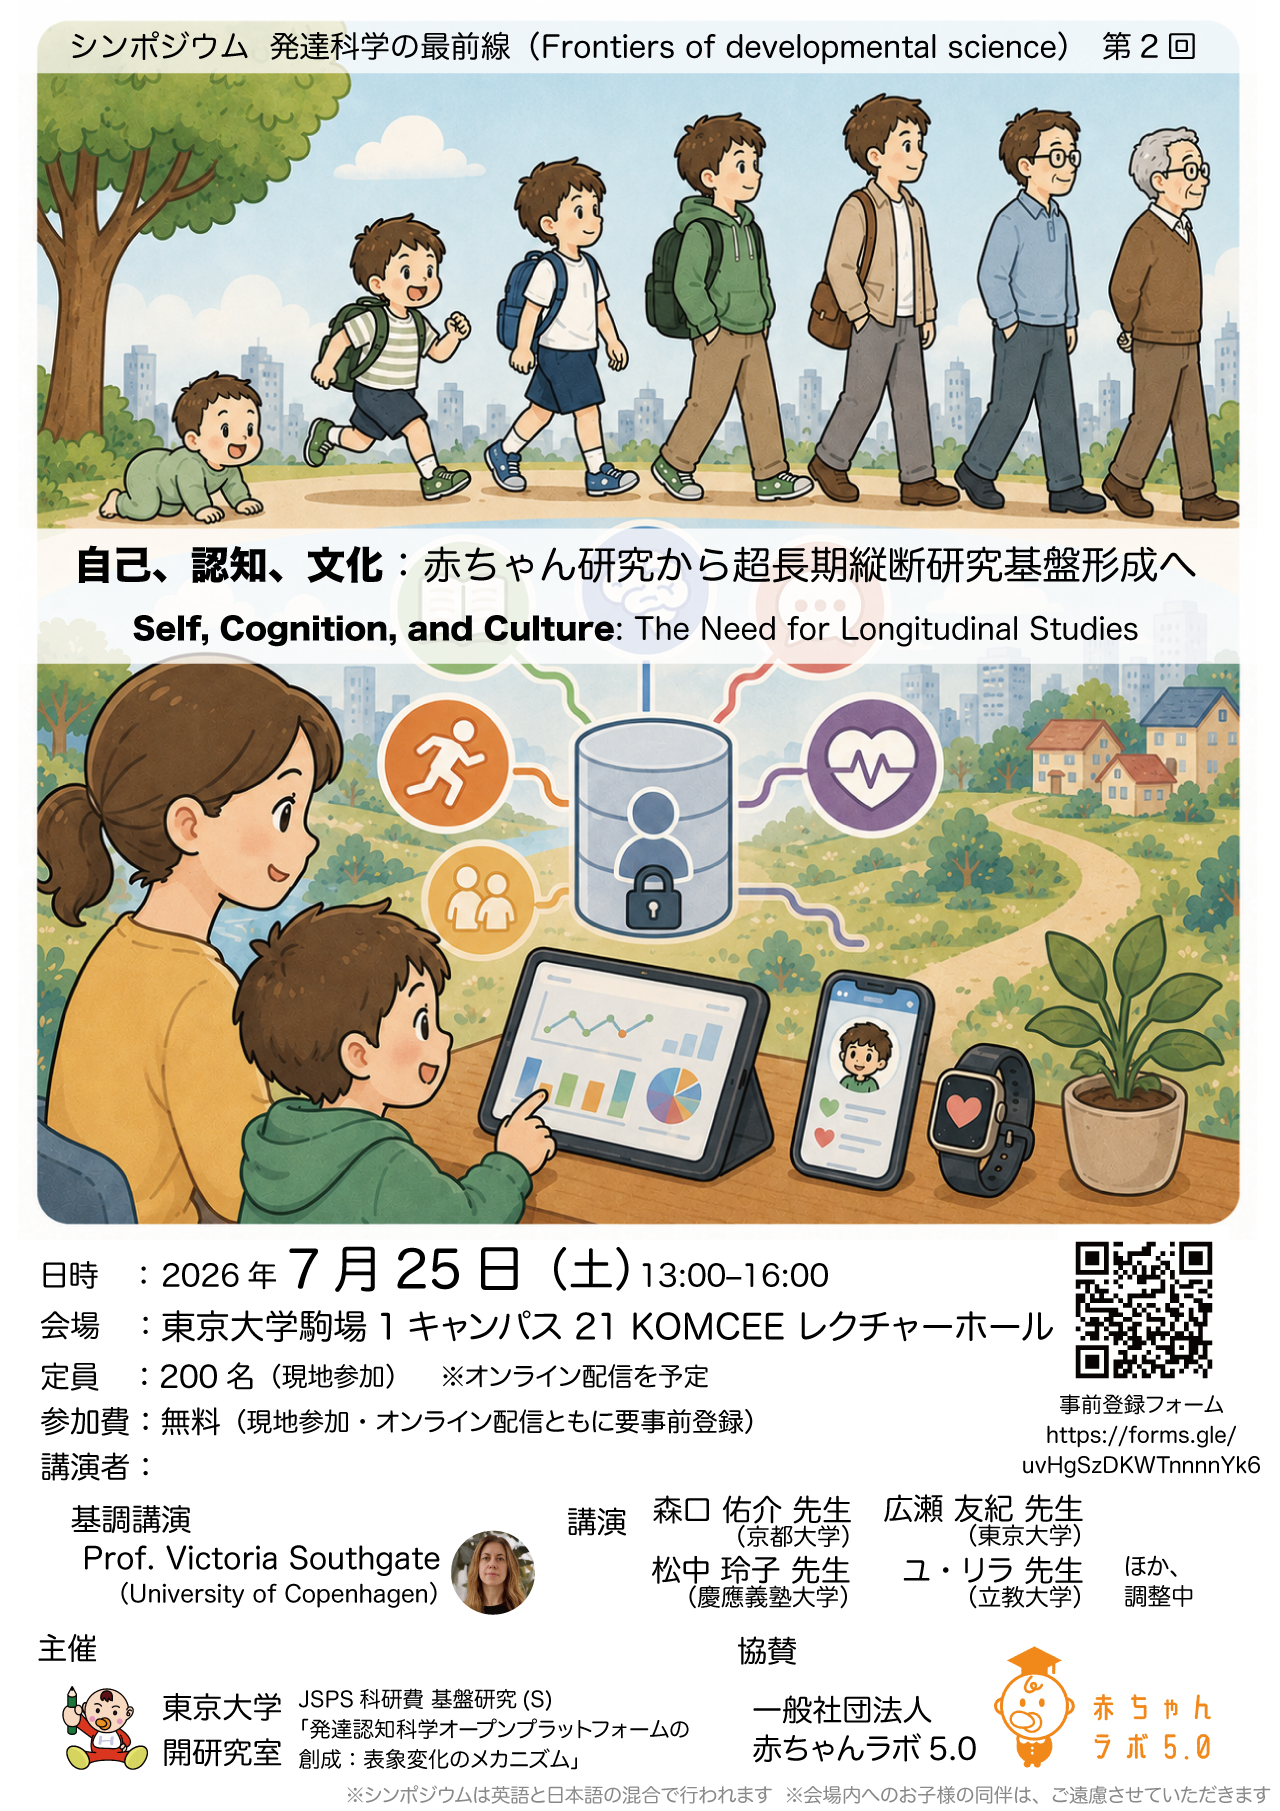
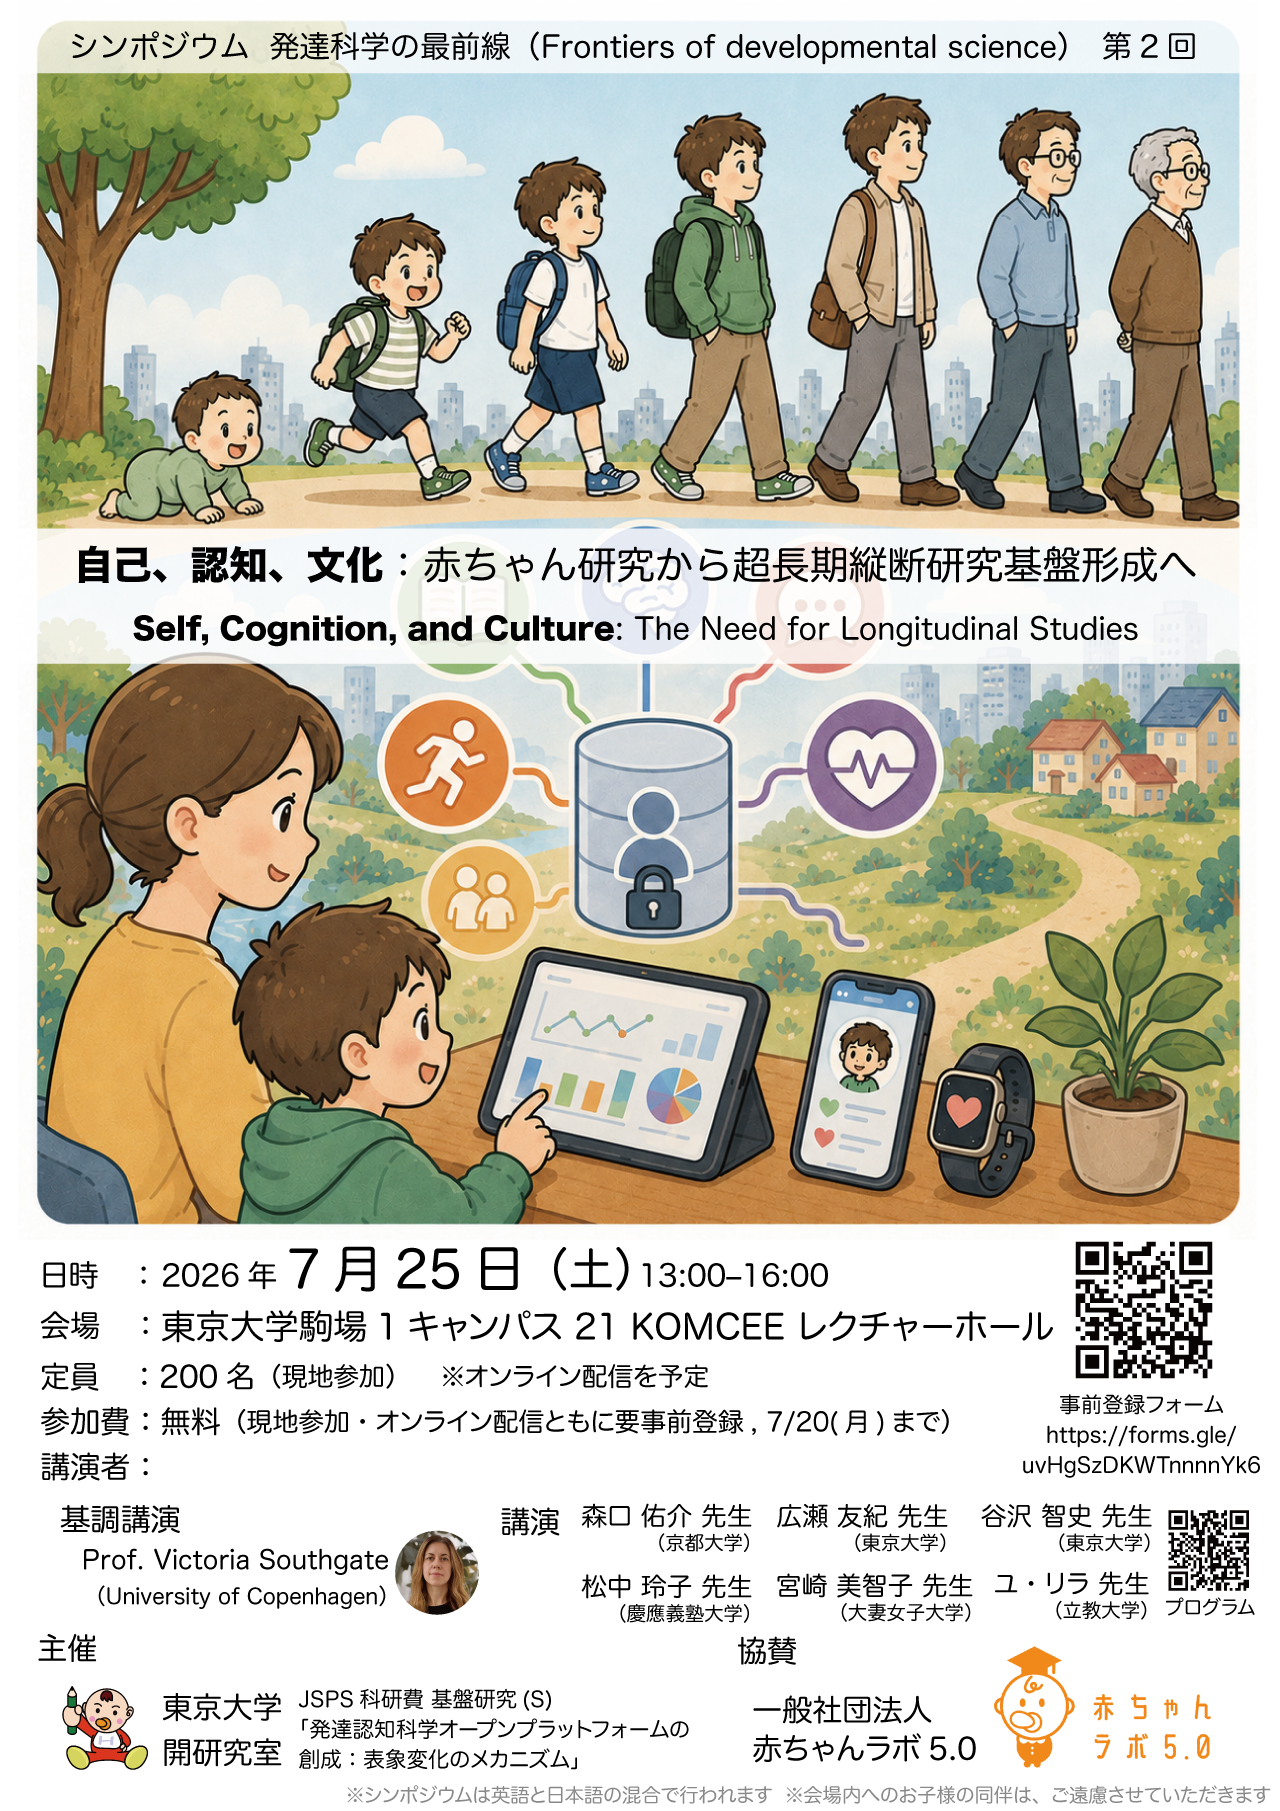
確定プログラムを掲載し、アブストラクトを開閉式に変更

Changed region(s): [[0.0625, 0.7731, 1.0, 0.8967]]

diff --git a/assets/css/custom.css b/assets/css/custom.css
@@ -131,6 +131,74 @@ footer.site-footer {
     margin-bottom: 1em;
 }
 
+details.talk {
+    margin: 0;
+}
+
+details.talk > summary {
+    display: block;
+    list-style: none;
+    cursor: pointer;
+    color: inherit;
+    padding: 0.15em 0;
+}
+
+details.talk > summary .talk-title {
+    display: block;
+    padding-left: 3em;
+}
+
+details.talk > summary:hover {
+    background: rgba(30, 107, 184, 0.06);
+}
+
+details.talk > summary::-webkit-details-marker {
+    display: none;
+}
+
+details.talk > summary .more {
+    margin-left: 0.4em;
+    color: #1e6bb8;
+    font-size: 0.7em;
+}
+
+details.talk > summary .talk-title::after {
+    content: "";
+    display: inline-block;
+    width: 0.35em;
+    height: 0.35em;
+    margin-left: 0.3em;
+    border: solid #1e6bb8;
+    border-width: 0.12em 0.12em 0 0;
+    transform: rotate(45deg);
+    transition: transform 0.15s ease;
+    vertical-align: middle;
+    position: relative;
+    top: -0.1em;
+    font-size: 0.7em;
+}
+
+details.talk[open] > summary .talk-title::after {
+    transform: rotate(135deg);
+    top: 0.05em;
+}
+
+.talk-abstract {
+    margin: 0.5em 0 0.7em 2em;
+}
+
+.main-content p.prow {
+    margin: 0;
+    padding: 0.15em 0;
+}
+
 .event-notice {
     color: #888;
+}
+
+.main-content h3.session-header {
+    margin-top: 1rem;
+    margin-bottom: 0.5rem;
+    padding-bottom: 0.2rem;
+    border-bottom: 2px solid #ccc;
 }

diff --git a/_posts/2026-06-25-symposium-2026.md b/_posts/2026-06-25-symposium-2026.md
@@ -8,35 +8,89 @@ date: 2026-06-25
 
 ## 開催概要
 
-**日時**：2026年7月25日（土）13:00–16:00<br>
+**日時**：2026年7月25日（土）13:00–16:00（受付開始：12:30から）<br>
 **会場**：東京大学駒場1キャンパス 21 KOMCEE レクチャーホール（[学内Map](https://www.u-tokyo.ac.jp/campusmap/cam02_01_55_j.html)）<br>
 **定員**：200名（現地参加）※オンライン配信を予定<br>
 **参加費**：無料<br>
-**参加登録**：現地参加・オンライン配信ともにGoogleフォームから事前登録をお願いいたします（要事前登録、URL: <a href="https://forms.gle/uvHgSzDKWTnnnnYk6">https://forms.gle/uvHgSzDKWTnnnnYk6</a>）<br>
+**参加登録**：現地参加・オンライン参加ともにGoogleフォームから事前登録をお願いいたします（要事前登録、URL: <a href="https://forms.gle/uvHgSzDKWTnnnnYk6">https://forms.gle/uvHgSzDKWTnnnnYk6</a>、2026年7月20日（月）まで）<br>
 **協賛**：<br>
 <div class="event-detail">
 一般社団法人 赤ちゃんラボ5.0<br>
 </div>
 
+**お母様・お父様のご来校を心よりお待ちしております！**
+
 <div class="event-notice">
-※シンポジウムは英語と日本語の混合で行われます（自動翻訳等を実施予定）<br>
-※今回は大変申し訳ないのですが、お子様を同伴されてのご参加はご遠慮させていただきます<br>
+※進行の都合上、会場内へのお子様の同伴をご遠慮いただく場合がございます<br>
+※基調講演は、英語で行われます（自動翻訳等を実施予定）<br>
 ※録音・録画・撮影はご遠慮ください
 </div>
 
 ## プログラム
 
-調整中です。以下の皆さまにご登壇いただく予定です！決定次第掲載いたします。
+12:30–　受付開始
+{: .prow}
 
-**【基調講演】**Prof. Victoria Southgate（University of Copenhagen）<br>
-**【講演】**
-<div class="event-detail">
-・森口 佑介 先生（京都大学）<br>
-・広瀬 友紀 先生（東京大学）<br>
-・松中 玲子 先生（慶應義塾大学）<br>
-・ユ・リラ 先生（立教大学）<br>
-・ほか、調整中
+13:00–　開会の挨拶　**開 一夫 先生（東京大学／赤ちゃんラボ5.0 代表理事）**
+{: .prow}
+
+### 第1部　表象変化のメカニズム：実行機能と言語
+{: .session-header}
+
+<details class="talk">
+<summary>13:10–　<strong>森口 佑介 先生（京都大学）</strong><span class="talk-title">「乳幼児期の実行機能の発達研究」<span class="more">詳細</span></span></summary>
+<div class="talk-abstract">
+実行機能とは目標のために行動をコントロールする力のことを指します。幼児期の実行機能が後の学力や問題行動を予測することが示されており、どのように発達するかが世界中で注目されています。近年、実行機能は乳児期から発達することが明らかになりつつありますが、いつ、どのように発達するかは明らかではありません。本講演では、この点に関する我々のプロジェクトについて紹介します。
 </div>
+</details>
+<details class="talk">
+<summary>13:30–　<strong>広瀬 友紀 先生（東京大学）</strong><span class="talk-title">「子どものことばからわかること」<span class="more">詳細</span></span></summary>
+<div class="talk-abstract">
+従来の言語習得研究では、特定の文法項目等の知識が、ある時点の子どもにおいて獲得されているかどうかに注目してきました。私たちはそれに加え、獲得済み、あるいは獲得途中の知識がどのように「使いこなされるか」という点に関心を持っています。<br>
+　例えば、子どもは、複数の解釈ができる表現において、あるいは同じ出来事に対して複数の表現ができるときに、どういう選択をしがちなのか、それは大人とは異なる傾向を見せるのか。正解不正解がない課題をとおして、子ども達の頭のなかで、発達途上の脳のなかでの役割分担が大人とどう異なるか、それは他のどのような認知的側面と関係があるか調べることができます。<br>
+　学力という指標とは異なる視点から、知的な存在としての子どものことをもっと知りたい！そしてできれば、お子さんご本人ともその意義を分かち合いたい！こうした挑戦では、私たちのめざす大規模なオープンプラットフォームはこれまでにない進展をもたらすと期待されます。言語学の枠を超えて、発達心理学者・認知科学者のみなさん、そして調査協力者のみなさまとの共同作業にとてもわくわくしています。
+</div>
+</details>
+<details class="talk">
+<summary>13:45–　<strong>松中 玲子 先生（慶應義塾大学）</strong><span class="talk-title">「子どもの書き言葉への関心と読みにつながる経験」<span class="more">詳細</span></span></summary>
+<div class="talk-abstract">
+言葉には、話し言葉だけでなく、文字を介した書き言葉もあります。子どもたちは、いつ頃から文字に関心を示し、読みへと近づいていくのでしょうか。本講演では、赤ちゃんラボ5.0の会員の方々を対象に行った調査結果をもとに、文字への興味や読みの習得の発達的変化を紹介します。さらに、文字への関心や読みにつながる可能性のある家庭での経験についてお話しします。
+</div>
+</details>
+<details class="talk">
+<summary>14:00–　<strong>谷沢 智史 先生（東京大学）</strong><span class="talk-title">「ご家庭から参加できるオンライン実験：GO-E-MON による長期縦断的な発達研究」<span class="more">詳細</span></span></summary>
+<div class="talk-abstract">
+発達研究の多くは、実験室など限られた機会を中心に行われてきました。私たちは、ご家庭から継続的に参加できるオンライン実験環境 GO-E-MON を開発し、一人ひとりの発達の変化を長期的にとらえる新しい研究のかたちを目指しています。GO-E-MON では、参加者ご自身がデータを管理し、同意した研究に提供できる仕組みを取り入れています。これにより、ご本人の意思を尊重しながら、長期にわたる縦断的な発達研究を実現することができます。また、GO-E-MON を使うことで、研究者は AI の支援を受けながらオンライン実験の実装をすることが可能です。本発表では、GO-E-MON の概要と、どのようなオンライン実験ができるのかについてご紹介します。
+</div>
+</details>
+
+14:15–　休憩
+{: .prow}
+
+### 第2部　自己表象の発達：個人差と文化差
+{: .session-header}
+
+14:30–　【基調講演】**Victoria Southgate 先生（University of Copenhagen）**
+{: .prow}
+
+<details class="talk">
+<summary>15:15–　<strong>宮崎 美智子 先生（大妻女子大学）</strong><span class="talk-title">「手遊びが効いていた：鏡像自己認知を支える認知のはなし」<span class="more">詳細</span></span></summary>
+<div class="talk-abstract">
+鏡像自己認知、すなわち鏡に映った自分を自分だとわかること。一見あたり前にみえるふるまいの裏には、さまざまな認知のはたらきが隠されています。本発表では、私が開研究室に所属していたときに多くのご協力者から教えてもらった鏡像自己認知における認知のはたらきの一端を紹介し、このふるまいの起源に迫るひとつのアイデア、「手遊びの役割」について考えてみたいと思います。
+</div>
+</details>
+<details class="talk">
+<summary>15:30–　<strong>ユ・リラ 先生（立教大学）</strong><span class="talk-title">「『わたし(me)』に出会うとき：鏡のテストからみえる子どもの心」<span class="more">詳細</span></span></summary>
+<div class="talk-abstract">
+ヒトは2歳頃になると、鏡に映った自分の顔の汚れに気づいて触るようになると言われています。しかし最近の研究から、「ただ触るだけ」では、本当に自分だと分かっていない可能性が見えてきました。では、子どもたちは一体いつから、どのように鏡の中の「自分」を深く認識し始めるのでしょうか。本講演では、従来の鏡のテストに新たな観察段階を加えた、最新の研究結果を紹介します。
+</div>
+</details>
+
+15:45–　閉会の挨拶　**開 一夫 先生（東京大学／赤ちゃんラボ5.0 代表理事）**
+{: .prow}
+
+16:00　終了
+{: .prow}
 
 問い合わせ先：<img style="height: 2rem; vertical-align: middle;" src="/assets/images/office.png" alt="office＠aka-lab.jp">
 
